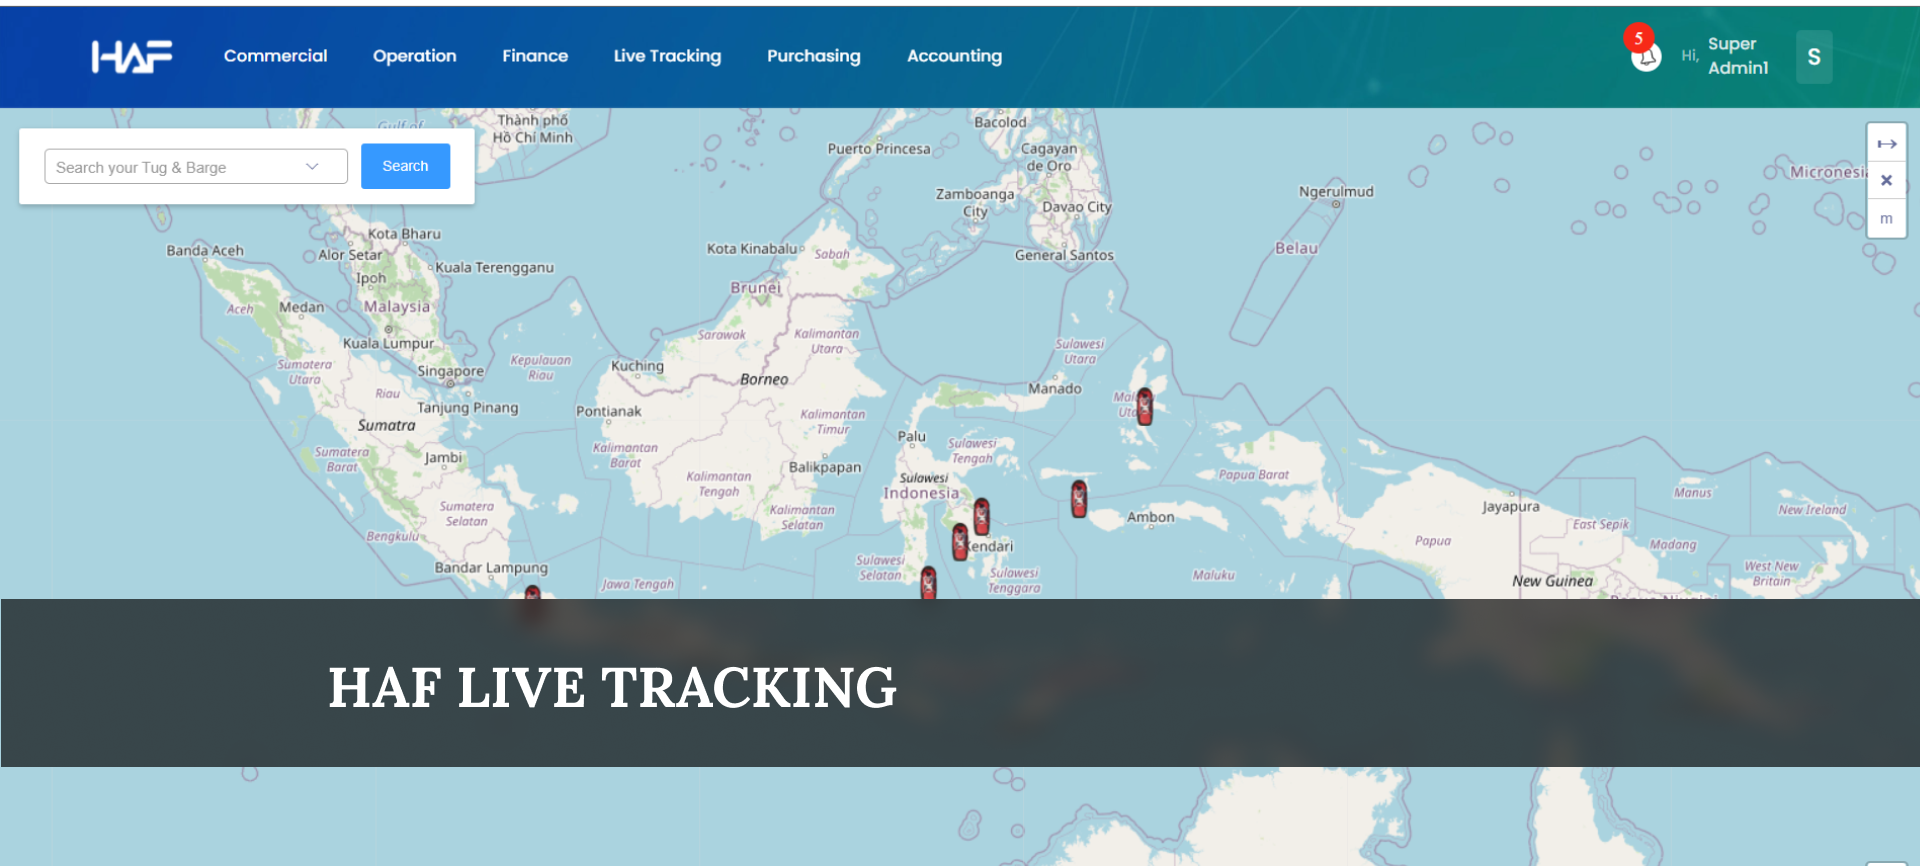
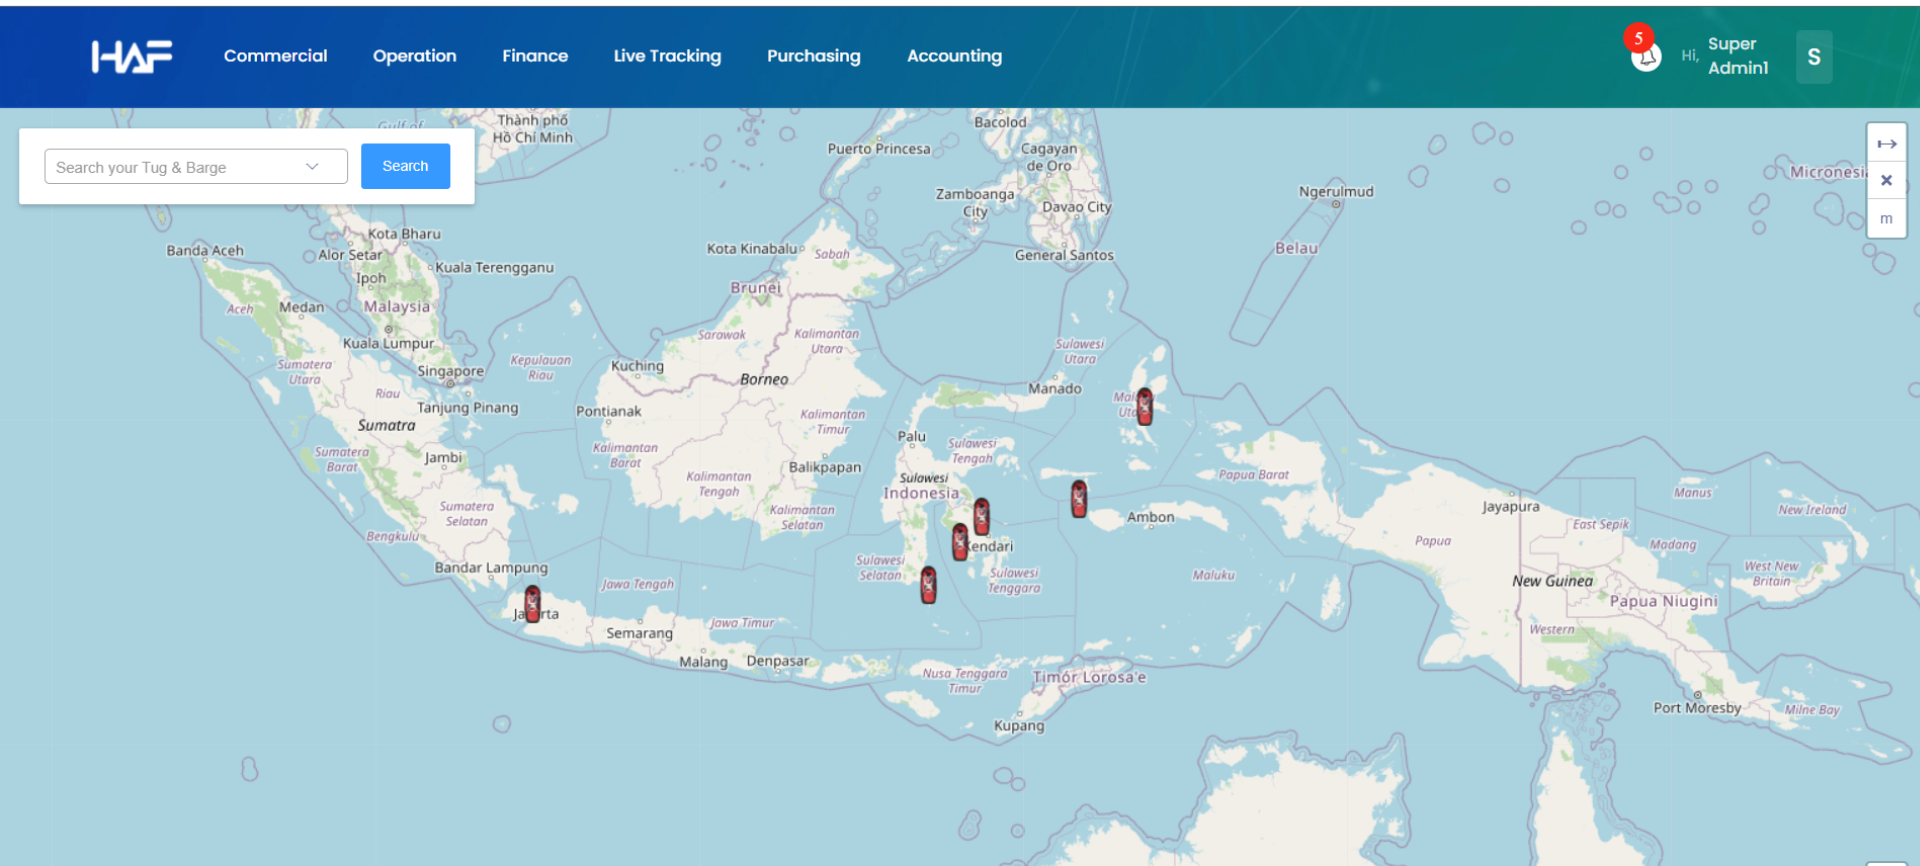
master

Changed region(s): [[0.0, 0.6859, 1.0, 0.9042]]

diff --git a/solution-tracking.html b/solution-tracking.html
@@ -98,64 +98,54 @@
         <!-- =========== End of Navigation (main menu)  ============ -->
 
         <!-- =========== Start of Hero ============ -->
-        <section class="hero hero--full hero--v12 d-flex align-items-center">
+        <section class="hero hero--v12 d-flex align-items-center">
             <div class="background-holder background--cover z-index1">
-                <img src="img/hero/hero-solution-operaion.png" alt="image" class="background-image-holder">
+                <img src="img/hero/hero-solution-tracking.png" alt="image" class="background-image-holder">
             </div>
             <!-- end of backgound image -->
-            <div class="background-holder bg-color--white"></div>
+            <div class="background-holder bg-color--primary"></div>
             <!-- end of bottom svg shape -->
+
+            <div class="container mb-10">
+                <div class="row flex-column-reverse flex-lg-row align-items-center mb-10 mb-lg-5">
+                    <div class="col-12 col-md-10 col-lg-8 mx-auto mx-lg-0 text-center text-lg-left z-index3">
+                        <div class="hero-content reveal">
+                            <h1 class="hero__title color--white h2-font font-w--700 mb-2 text-uppercase">HAF Live Tracking
+                            </h1>
+                            <!-- end of text content -->
+                        </div>
+                        <!-- end of content -->
+                    </div>
+                </div>
+                <!-- end of row -->
+            </div>
         </section>
         <!-- =========== End of Hero ============ -->
 
-        <!-- =========== Start of HAF Operation, Why, Time, Record, API ============ -->
-        <section class="space--top z-index1" id="hafoperation">
+        <!-- =========== Start of Api Integration ============ -->
+        <section class="space--top z-index1" id="hafcommercial">
             <div class="container">
                 <div class="row">
                     <div class="col-12  mb-4 mb-lg-6 reveal">
-                        <h2 class="mb-2 h3-font font-w--700 text-uppercase">HAF Operation</h2>
-                        <p class="mb-4">HAF Operations provides quick and easy access to top level management, technical, commercial and procurement managers for every activity and requirement of your cruise journey.</p>
-                    </div>
-                </div>
-                <div class="row">
-                    <div class="col-12  mb-4 mb-lg-6 reveal">
-                        <h2 class="mb-2 h3-font font-w--700 text-uppercase">Why Voyage Report?</h2>
-                        <p class="mb-4">Voyage Reports are used to manage shipping operations and calculate and maintain financial information during voyages. This feature helps the operations department to get daily reports for specific trips and keep track of the expenses involved. This feature calculates all costs real-time.</p>
-                    </div>
-                </div>
-                <div class="row">
-                    <div class="col-12  mb-4 mb-lg-6 reveal">
-                        <h5 class="mb-2 h5-font font-w--700 text-uppercase">TIME EFFICIENCY</h5>
-                        <p class="mb-4">The biggest responsibility of any shipping trip is the operational cover. Voyage report helps in the role of efficient use of time in real-time reporting that is obtained directly from the operating fleet.</p>
-                    </div>
-                </div>
-                <div class="row">
-                    <div class="col-12  mb-4 mb-lg-6 reveal">
-                        <h5 class="mb-2 h5-font font-w--700 text-uppercase">RECORD EVERYTHING</h5>
-                        <p class="mb-4">Voyage report records all activities that occur in a journey based on real time reports on electronic notebooks.</p>
-                    </div>
-                </div>
-                <div class="row">
-                    <div class="col-12 reveal">
-                        <h5 class="mb-2 h5-font font-w--700 text-uppercase">API INTEGRATION</h5>
+                        <h2 class="mb-2 h3-font font-w--700 text-uppercase">API INTEGRATION</h2>
                         <p class="mb-4">These supporting features shape operational analysis data from multiple perspectives and sources. HAF Operation provides a path for shipping companies to connect data recorded on each tracking device such as location tracking, fuel control, RPM monitoring and other tracking support tools owned by your ship in shipping operations.</p>
                     </div>
                 </div>
             </div>
         </section>
-        <!-- =========== End of HAF Operation, Why, Time, Record, API ============ -->
+        <!-- =========== End of Api Integration ============ -->
 
-        <!-- =========== Start of Ipad Operation ============ -->
-        <section class="space--top z-index1 pb-xl-10" id="optimaltrip">
+        <!-- Macbook Solution Tracking ============================================= -->
+		<section class="pt-5 pb-xl-10">
             <div class="container">
                 <div class="row justify-content-md-center">
-                    <div class="col-12 col-md-9">
-                        <img src="img/macbook/ipad-ops.png" class="img-responsive w-100" alt="" srcset="">
+                    <div class="col-12 col-md-10">
+                        <img src="img/macbook/macbook-solution-tracking.png" class="img-responsive w-100" alt="" srcset="">
                     </div>
                 </div>
             </div>
-        </section>
-        <!-- =========== End of Ipad Operation ============ -->
+		</section>
+        <!-- Macbook Solution Tracking -->
 
         <!-- ===== of Footer ============ -->
         <footer class="footer section--light border--top position-relative hidden">
@@ -171,6 +161,7 @@
                         </div>
                         <!-- end of col -->
                         <div class="col-12 col-sm-9 col-lg-6">
+                            <!-- <span class="widget__title font-size--17 font-w--400 mb-1">Jl. H. R. Rasuna Said Kav C11-14, RT.2/RW.5, Karet Kuningan, Jakarta, South Jakarta City, Jakarta 12940</span> -->
                             <p class="font-size--20 mb-1">© 2020 HAF, its subsidiaries and affiliates as ‘Naavee’. <br>All rights reserved.</p>
                             <p class="font-size--20 mb-1">Jl. H. R. Rasuna Said Kav C11-14, RT.2/RW.5, Karet Kuningan, Jakarta, South Jakarta City, Jakarta 12940</p>
                             <p class="font-size--20 mb-1">Terms & Conditions | Privacy Policy</p>

diff --git a/solution-purchasing.html b/solution-purchasing.html
@@ -100,7 +100,7 @@
         <!-- =========== Start of Hero ============ -->
         <section class="hero hero--full hero--v12 d-flex align-items-center">
             <div class="background-holder background--cover z-index1">
-                <img src="img/hero/hero-solution-operaion.png" alt="image" class="background-image-holder">
+                <img src="img/hero/hero-solution-purchasing.png" alt="image" class="background-image-holder">
             </div>
             <!-- end of backgound image -->
             <div class="background-holder bg-color--white"></div>
@@ -108,54 +108,24 @@
         </section>
         <!-- =========== End of Hero ============ -->
 
-        <!-- =========== Start of HAF Operation, Why, Time, Record, API ============ -->
+        <!-- =========== Start of Haf Purchasing, Purchasing ============ -->
         <section class="space--top z-index1" id="hafoperation">
             <div class="container">
                 <div class="row">
                     <div class="col-12  mb-4 mb-lg-6 reveal">
-                        <h2 class="mb-2 h3-font font-w--700 text-uppercase">HAF Operation</h2>
-                        <p class="mb-4">HAF Operations provides quick and easy access to top level management, technical, commercial and procurement managers for every activity and requirement of your cruise journey.</p>
+                        <h2 class="mb-2 h3-font font-w--700 text-uppercase">HAF Purchasing</h2>
+                        <p class="mb-4 font-w--600">This is a procurement system that is directly integrated by every ship in your shipping operation, specially designed for the shipping industry in Indonesia.</p>
                     </div>
                 </div>
                 <div class="row">
                     <div class="col-12  mb-4 mb-lg-6 reveal">
-                        <h2 class="mb-2 h3-font font-w--700 text-uppercase">Why Voyage Report?</h2>
-                        <p class="mb-4">Voyage Reports are used to manage shipping operations and calculate and maintain financial information during voyages. This feature helps the operations department to get daily reports for specific trips and keep track of the expenses involved. This feature calculates all costs real-time.</p>
-                    </div>
-                </div>
-                <div class="row">
-                    <div class="col-12  mb-4 mb-lg-6 reveal">
-                        <h5 class="mb-2 h5-font font-w--700 text-uppercase">TIME EFFICIENCY</h5>
-                        <p class="mb-4">The biggest responsibility of any shipping trip is the operational cover. Voyage report helps in the role of efficient use of time in real-time reporting that is obtained directly from the operating fleet.</p>
-                    </div>
-                </div>
-                <div class="row">
-                    <div class="col-12  mb-4 mb-lg-6 reveal">
-                        <h5 class="mb-2 h5-font font-w--700 text-uppercase">RECORD EVERYTHING</h5>
-                        <p class="mb-4">Voyage report records all activities that occur in a journey based on real time reports on electronic notebooks.</p>
-                    </div>
-                </div>
-                <div class="row">
-                    <div class="col-12 reveal">
-                        <h5 class="mb-2 h5-font font-w--700 text-uppercase">API INTEGRATION</h5>
-                        <p class="mb-4">These supporting features shape operational analysis data from multiple perspectives and sources. HAF Operation provides a path for shipping companies to connect data recorded on each tracking device such as location tracking, fuel control, RPM monitoring and other tracking support tools owned by your ship in shipping operations.</p>
+                        <h2 class="mb-2 h3-font font-w--700 text-uppercase">WHY HAF Purchasing?</h2>
+                        <p class="mb-4 font-w--600">Users can access a variety of important supplier business information, prices, vouchers, invoices, budget statistics, gasoline price trends and purchase orders. The software also includes an Alerts feature, which enables a fully electronic purchasing workflow.</p>
                     </div>
                 </div>
             </div>
         </section>
-        <!-- =========== End of HAF Operation, Why, Time, Record, API ============ -->
-
-        <!-- =========== Start of Ipad Operation ============ -->
-        <section class="space--top z-index1 pb-xl-10" id="optimaltrip">
-            <div class="container">
-                <div class="row justify-content-md-center">
-                    <div class="col-12 col-md-9">
-                        <img src="img/macbook/ipad-ops.png" class="img-responsive w-100" alt="" srcset="">
-                    </div>
-                </div>
-            </div>
-        </section>
-        <!-- =========== End of Ipad Operation ============ -->
+        <!-- =========== End of Haf Purchasing, Purchasing ============ -->
 
         <!-- ===== of Footer ============ -->
         <footer class="footer section--light border--top position-relative hidden">
